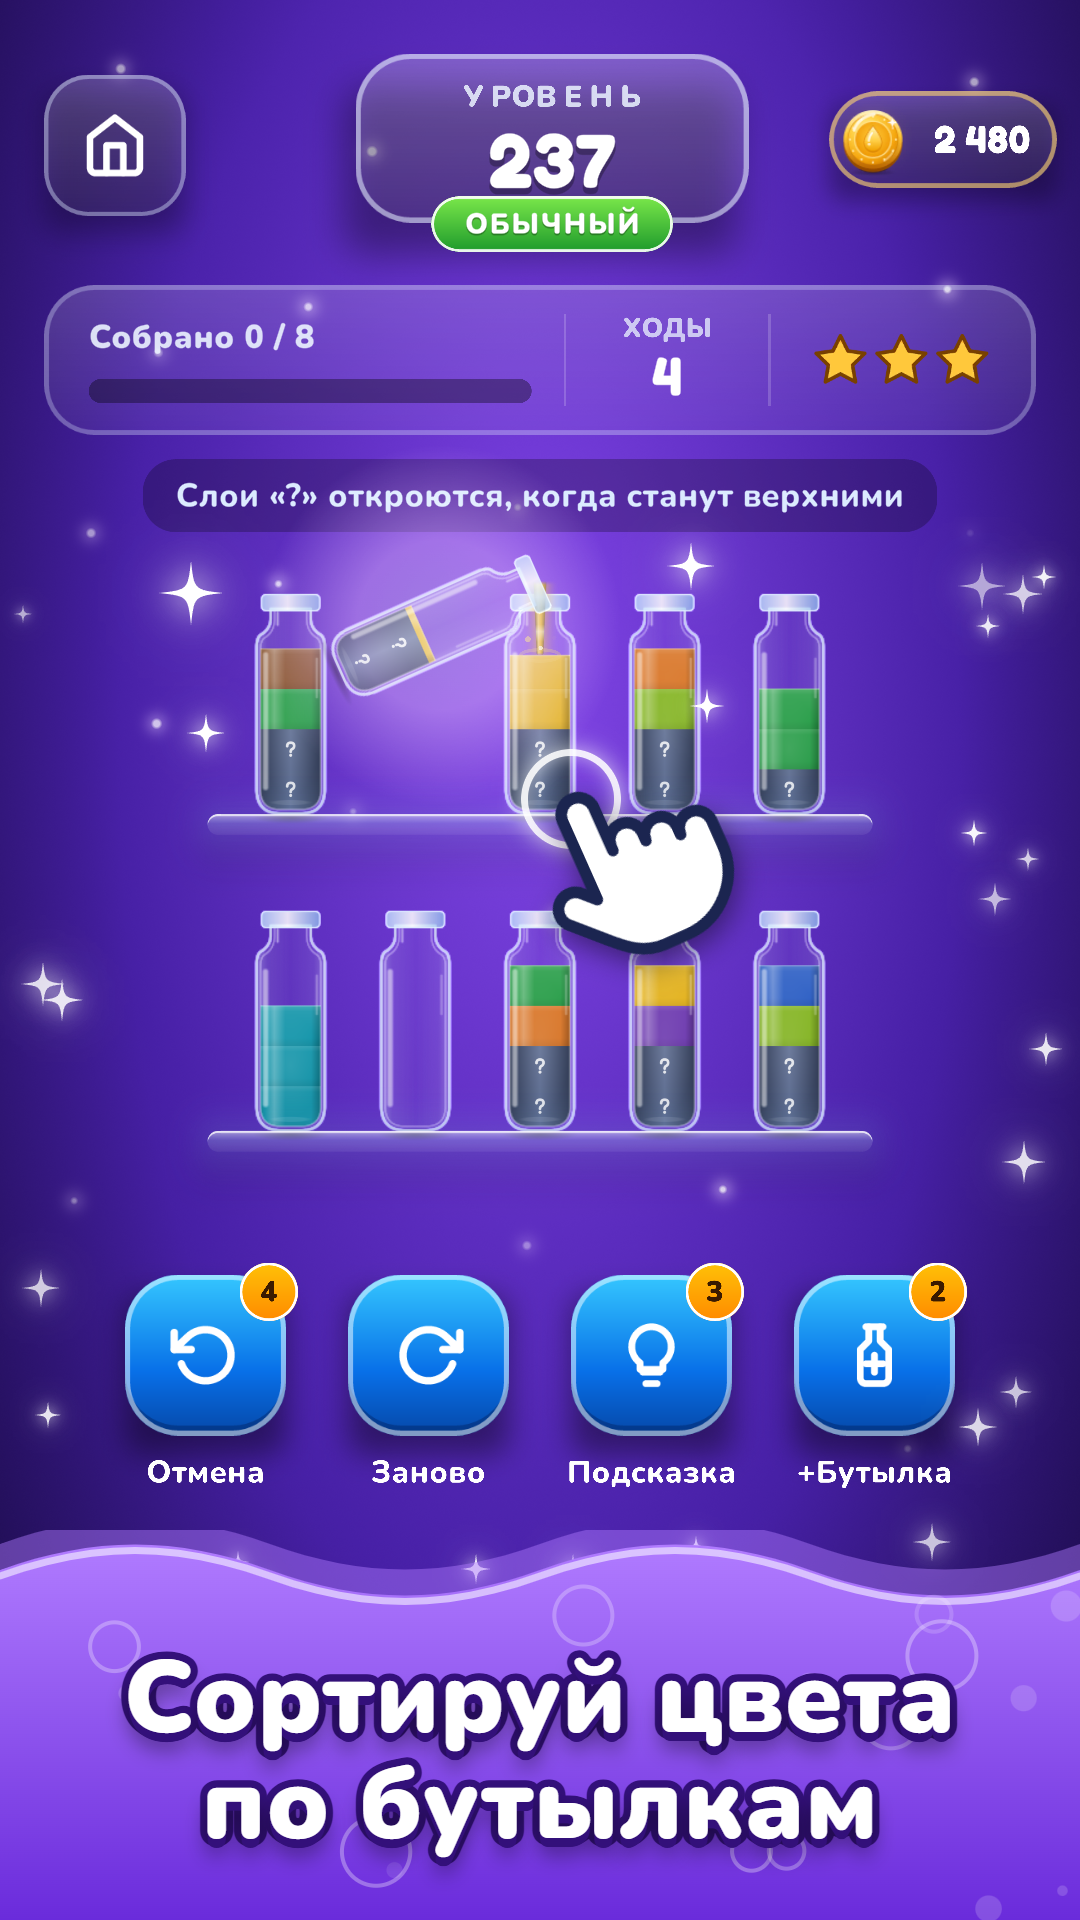
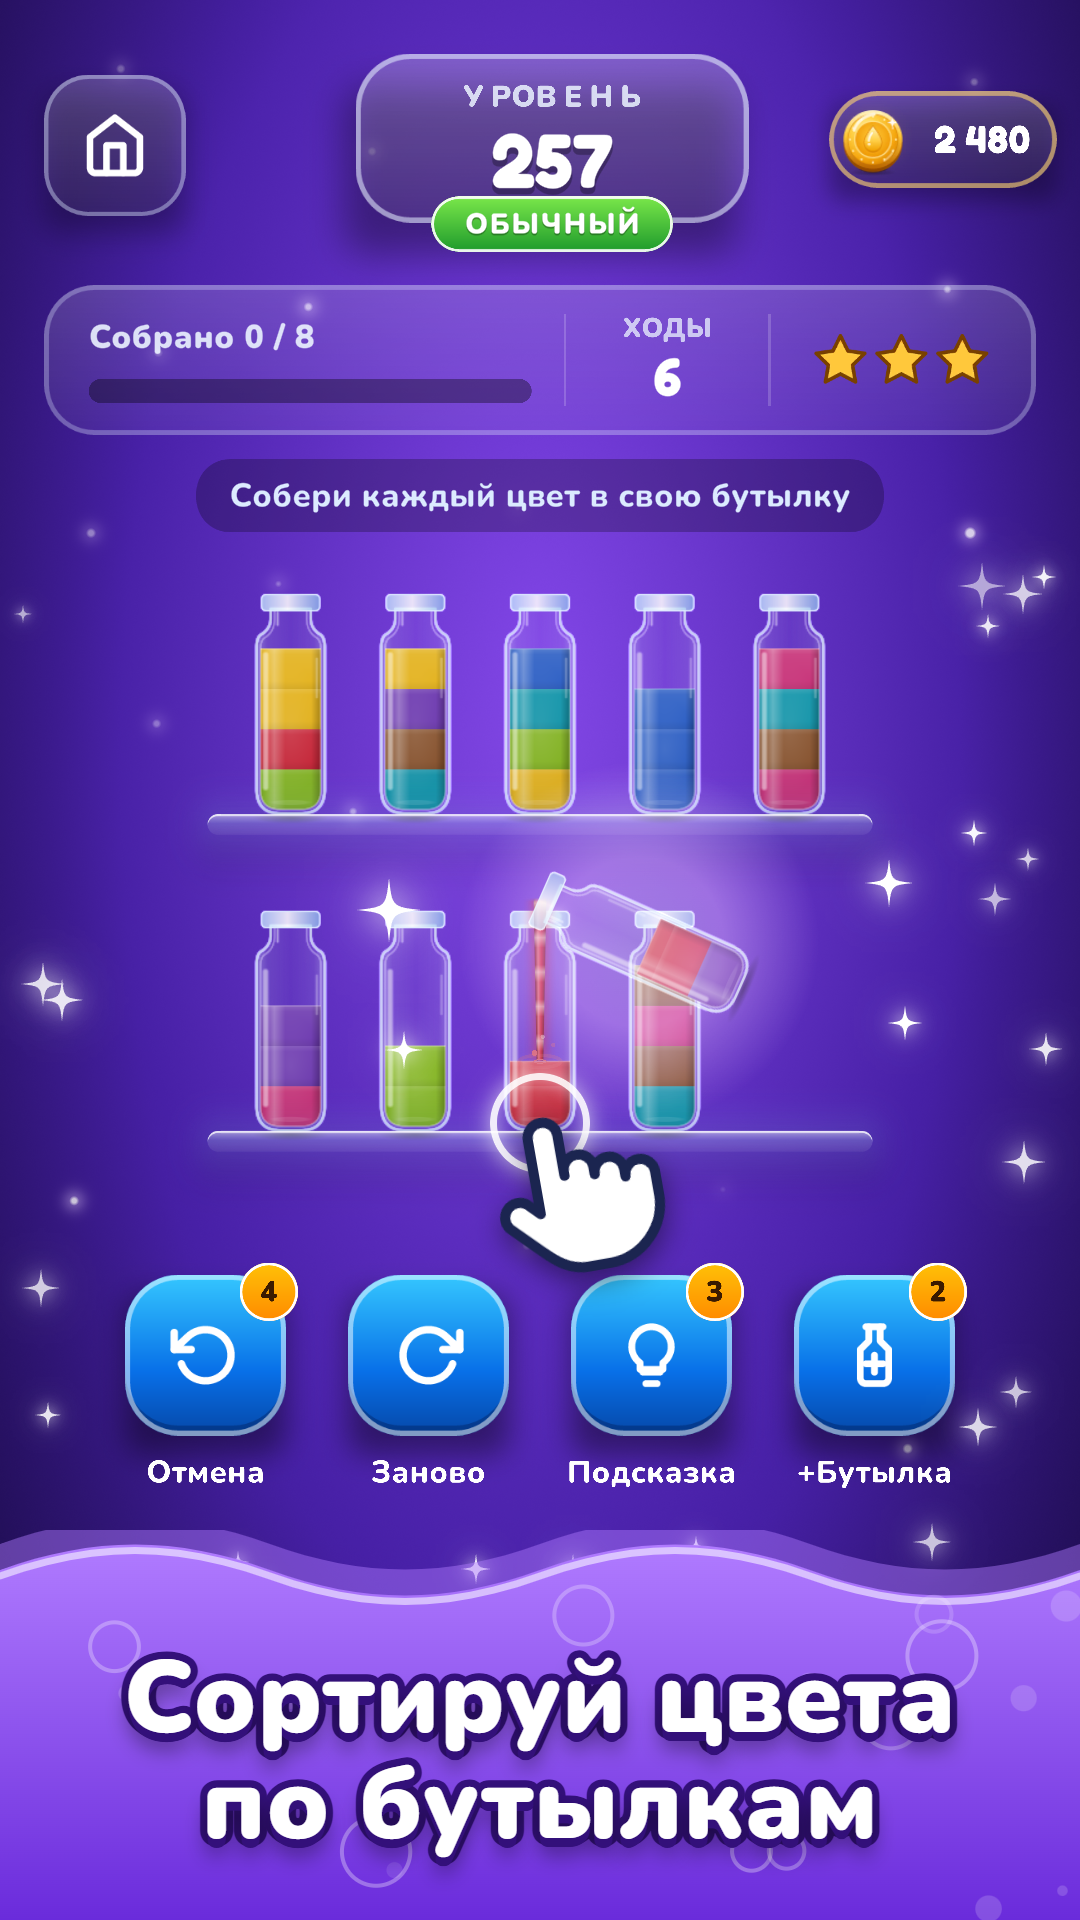
Store slides: brighter pour on the first, whole panda on the third
The first slide pours three red layers into an empty bottle with the hand under it, the third shows the panda without a stream across it. summary.png puts all twelve slides side by side.

diff --git a/Store/Screenshots/template_v2.html b/Store/Screenshots/template_v2.html
@@ -59,11 +59,11 @@
 // decor — что дорисовать по рамкам из marks.json: hand (рука нажимает), shine (сияние и блёстки), arrow (стрелка).
 const SLIDES = [
   { shot: '01', title: 'Сортируй цвета<br>по бутылкам', wave: ['#b07bff', '#6a2bdb'], ink: '#33107a', glow: '#c9a2ff',
-    decor: [{ kind: 'shine', at: 'body', size: 1.1 }, { kind: 'hand', at: 'target', x: 0.8, y: 0.9, tilt: -24 }] },
+    decor: [{ kind: 'shine', at: 'body', size: 1.1 }, { kind: 'hand', at: 'target', x: 0.5, y: 0.93, tilt: -10, size: 180 }] },
   { shot: '02', title: 'Большая колба<br>на 8 слоёв', wave: ['#4f9bff', '#1d55d6'], ink: '#0d2a7a', glow: '#8cc0ff',
     decor: [{ kind: 'rays', at: 'target', size: 1.9 }, { kind: 'shine', at: 'target', size: 1.25 }] },
   { shot: '03', title: 'Спаси<br>друзей!', wave: ['#2cd6e6', '#0a8aa3'], ink: '#05495a', glow: '#9af2ff',
-    decor: [{ kind: 'rays', at: 'figure', size: 1.6 }, { kind: 'shine', at: 'figure', size: 1.05 }] },
+    decor: [{ kind: 'rays', at: 'figure', size: 1.6 }, { kind: 'shine', at: 'figure', size: 1.05, opacity: 0.45 }] },
   { shot: '04', title: 'Бутылки<br>любых форм', wave: ['#ff60aa', '#cf176a'], ink: '#640833', glow: '#ffb3d6',
     decor: [{ kind: 'shine', at: 'source', size: 1.35 }, { kind: 'arrow', from: 'source', to: 'target' }, { kind: 'hand', at: 'target', x: 0.5, y: 0.62, tilt: -14 }] },
   { shot: '05', title: 'Звёзды<br>и награды', wave: ['#ffb43c', '#e5650b'], ink: '#6e2c03', glow: '#ffe0a0', decor: [] },
@@ -158,7 +158,7 @@ const decorations = {
     const size = Math.max(b.w, b.h) * (d.size || 1.2)
     const el = document.createElement('div')
     el.className = 'shine'
-    el.style.cssText = `left:${b.cx}px;top:${b.cy}px;width:${size}px;height:${size}px;--glow:${s.glow}`
+    el.style.cssText = `left:${b.cx}px;top:${b.cy}px;width:${size}px;height:${size}px;--glow:${s.glow};opacity:${d.opacity ?? 1}`
     under.appendChild(el)
     const points = [[-0.64, -0.12, 1], [0.64, -0.22, 0.75], [0.68, 0.3, 0.55], [-0.6, 0.4, 0.6]]
     for (const [px, py, k] of points)

diff --git a/Assets/_Game/Scripts/UI/Tests/StoreScreenshotCapture.cs b/Assets/_Game/Scripts/UI/Tests/StoreScreenshotCapture.cs
@@ -24,7 +24,7 @@ namespace BottleSort.UI.Tests
     {
         const string OutputDir = "Store/Screenshots/source_v2";
         // Уровни в два ряда: в три ряда поле над волной выходит мелким.
-        const int PourLevel = 237;
+        const int PourLevel = 257;
         const int FlaskLevel = 45;
         const int RescueLevel = 208;
         const int ShapesLevel = 280;
@@ -48,6 +48,9 @@ namespace BottleSort.UI.Tests
             new Size { Dir = "rustore", Width = 1080, Height = 1920, Top = 36, Bottom = 230 },
             new Size { Dir = "appstore_6.7", Width = 1290, Height = 2796, Top = 110, Bottom = 330 }
         };
+
+        static readonly int[] BrightColors =
+            { Palette.Red, Palette.Yellow, Palette.Green, Palette.Cyan, Palette.Orange, Palette.Pink, Palette.Lime };
 
         // Те же темы, что в игре, только светлее: на слайде у каждого кадра свой яркий цвет.
         static readonly (Theme theme, string center, string middle, string edge, string halo, string spark)[] BrightThemes =
@@ -126,18 +129,18 @@ namespace BottleSort.UI.Tests
             }
         }
 
-        // 1. Обычный уровень в разгаре: бутылка льёт в такой же цвет.
+        // 1. Обычный уровень в начале партии: бутылка льёт яркий цвет.
         IEnumerator PourSlide()
         {
             yield return OpenLevel(PourLevel, Theme.Violet);
             var solution = Solution(PourLevel);
-            // Начало партии, пока бутылки ещё пёстрые: лучше всего налив двух слоёв на такой же цвет.
-            int index = Pick(solution, 3, 8, (state, move) =>
-                !state[move.To].IsEmpty && state.PourAmount(move) >= 2 && state[move.To].Count + state.PourAmount(move) < state.Unit);
-            if (index < 0)
-                index = Pick(solution, 3, 8, (state, move) => !state[move.To].IsEmpty);
-            if (index < 0)
-                index = 3;
+            // Начало партии, пока бутылки ещё пёстрые. Яркий цвет из открытой бутылки льётся в пустую в нижнем ряду:
+            // струя видна на всю высоту, а рука под целью не закрывает соседей.
+            float lowerRow = Slot(0).yMax;
+            int index = Pick(solution, 2, 10, (state, move) =>
+                state[move.To].IsEmpty && state[move.From].HiddenCount == 0 && state.PourAmount(move) >= 2 &&
+                Array.IndexOf(BrightColors, state[move.From].TopColor) >= 0 && Slot(move.To).yMin > lowerRow);
+            Assert.GreaterOrEqual(index, 0, "no bright pour into an empty bottle on level " + PourLevel);
             yield return PlayTo(solution, index);
             yield return CapturePour(solution[index], "01", 0.45f);
         }
@@ -170,7 +173,7 @@ namespace BottleSort.UI.Tests
             }
         }
 
-        // 3. Спасение: налив в фигурку, внутри зверёк с табличкой HELP!
+        // 3. Спасение: зверёк с табличкой HELP! виден целиком, поэтому без струи — бутылка для фигурки уже выбрана и светится.
         IEnumerator RescueSlide(string name, int level)
         {
             yield return OpenLevel(level, Theme.Teal);
@@ -186,7 +189,12 @@ namespace BottleSort.UI.Tests
             if (index < 0)
                 index = solution.FindIndex(move => move.To == figure);
             yield return PlayTo(solution, index);
-            yield return CapturePour(solution[index], name, 0.5f, ("figure", Slot(figure)));
+            yield return Idle();
+            Time.timeScale = 1f;
+            var pick = solution[index];
+            Tap(pick.From);
+            yield return Frames(0.45f);
+            Shot(name, ("source", Slot(pick.From)), ("figure", Slot(figure)));
         }
 
         // 4. Бутылки разных форм и скрытые слои. Бутылка выбрана и светится, шаблон дорисует стрелку к цели.
